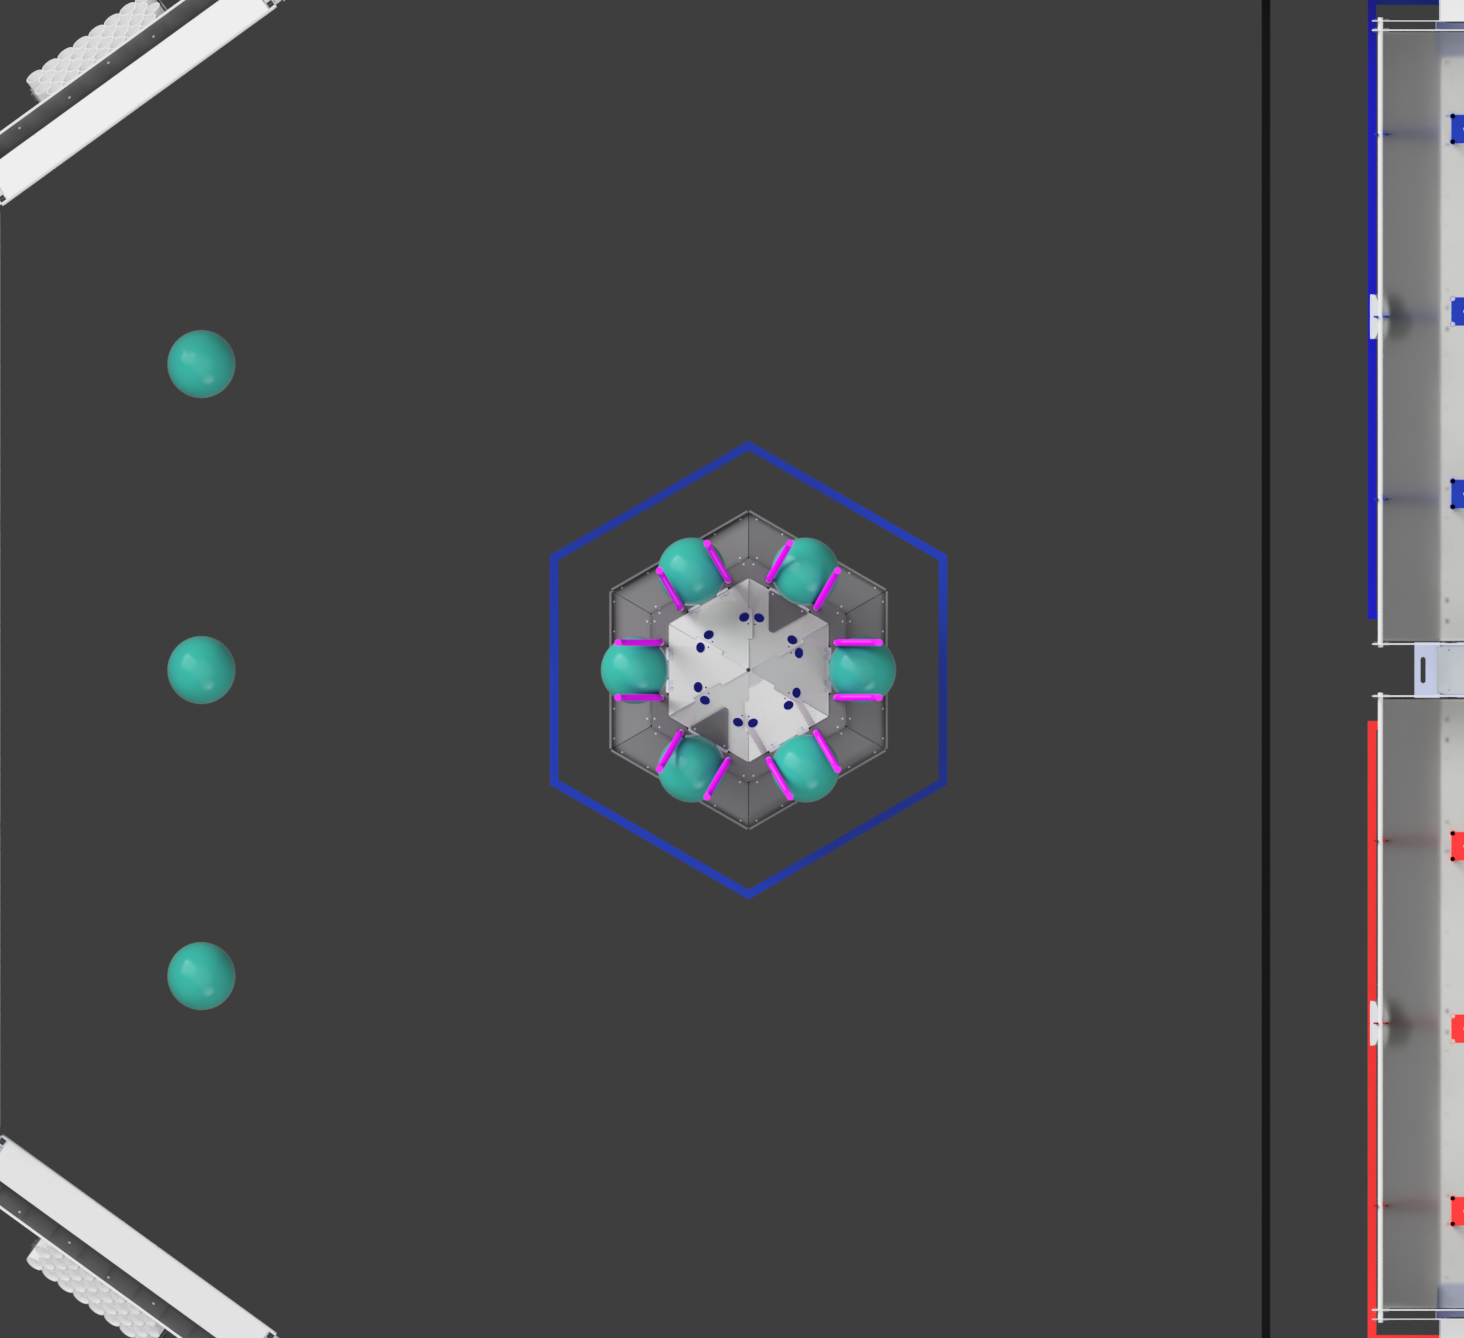
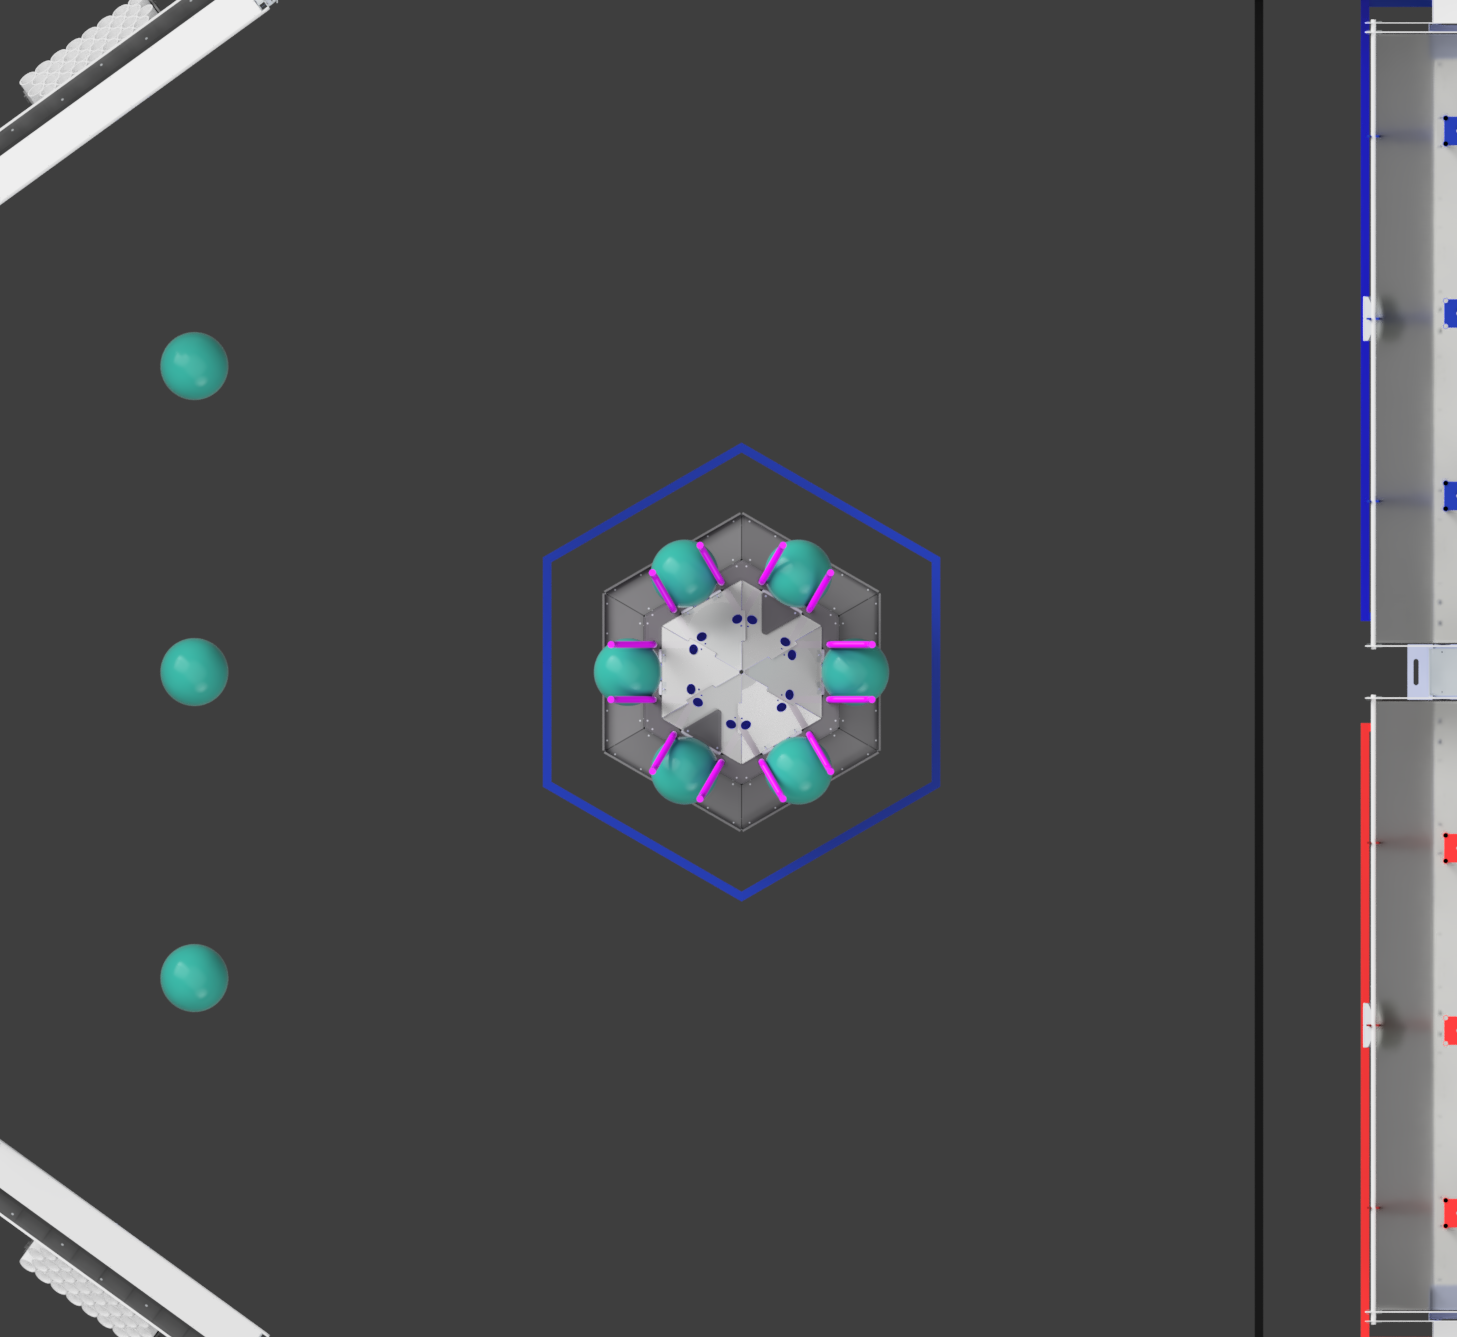
added flipping sides in pit scouting

diff --git a/APP/lib/widgets/pit_scouting_form.dart b/APP/lib/widgets/pit_scouting_form.dart
@@ -25,7 +25,8 @@ class _PitScoutingFormState extends State<PitScoutingForm> {
   bool formSubmitted = false;
   bool loading = true;
   late PitScouting2025 pitScoutingData = PitScouting2025(
-    scout_info: ScoutInfo(team_number: 0, first_name: '', user_id: '', username: ''),
+    scout_info:
+        ScoutInfo(team_number: 0, first_name: '', user_id: '', username: ''),
     team_number: widget.teamNumber,
     event_code: widget.tournament.page.split('/')[4],
     data: PitData2025(
@@ -46,6 +47,11 @@ class _PitScoutingFormState extends State<PitScoutingForm> {
     ),
     time: DateTime.now().toUtc().millisecondsSinceEpoch ~/ 1000,
   );
+
+  List<String?> selectedDropdownValues = [];
+
+  // Define the list of options for the dropdown menu
+  final List<String> dropdownOptions = ['Option 1', 'Option 2', 'Option 3'];
 
   @override
   void initState() {
@@ -70,10 +76,12 @@ class _PitScoutingFormState extends State<PitScoutingForm> {
         loading = false;
       });
       if (token != null) {
-        pitScoutingData = pitScoutingData.copyWith(scout_info: get_scout_info(token));
+        pitScoutingData =
+            pitScoutingData.copyWith(scout_info: get_scout_info(token));
         if (mounted) {
           setState(() {
-            pitScoutingData = pitScoutingData.copyWith(scout_info: get_scout_info(token));
+            pitScoutingData =
+                pitScoutingData.copyWith(scout_info: get_scout_info(token));
           });
         }
       }
@@ -211,109 +219,152 @@ class _PitScoutingFormState extends State<PitScoutingForm> {
     Navigator.pop(context);
   }
 
+  List<double> autoPositions = [];
 
- List<double> autoPositions = [];
+  Widget buildAutoImage(int index) {
+    double fieldWidthMeters = 8.052;
+    while (autoPositions.length <= index) {
+      autoPositions.add(0.0);
+    }
+    double sliderValue = autoPositions[index];
 
-Widget buildAutoImage(int index) {
-  double fieldWidthMeters = 8.052;
-  while (autoPositions.length <= index) {
-    autoPositions.add(0.0);
-  }
-  double sliderValue = autoPositions[index];
+    // Define the list of options for the dropdown menu
+    final List<String> dropdownOptions = ['Blue Side', 'Red Side', 'Both'];
 
-  return Center(
-    child: Card(
-      child: Padding(
-        padding: EdgeInsets.all(20),
-        child: LayoutBuilder(
-          builder: (context, constraints) {
-            double cardWidth = constraints.maxWidth;
-            double originalImageHeight = 250.0;
-            double originalImageWidth = originalImageHeight * 1.09417040359;
-            double scaleFactor = cardWidth / originalImageHeight;
-            double displayedImageWidth = cardWidth;
-            double displayedImageHeight = originalImageWidth * scaleFactor;
-            double pixelsPerMeter = displayedImageWidth / fieldWidthMeters;
-            double squareSize = displayedImageWidth * 0.1;
-            double squareLeft = sliderValue * pixelsPerMeter - squareSize / 2;
-            if (squareLeft < 0) squareLeft = 0;
-            if (squareLeft > displayedImageWidth - squareSize)
-              squareLeft = displayedImageWidth - squareSize;
-            return Column(
-              mainAxisSize: MainAxisSize.min,
-              children: [
-                Stack(
-                  children: [
-                    Transform.rotate(
-                      angle: 1.5708,
-                      child: Image.asset(
-                        'assets/2025 REEFSCAPE Gray Background blue.png',
-                        width: displayedImageWidth,
-                        height: displayedImageHeight,
-                        fit: BoxFit.contain,
-                      ),
-                    ),
-                    Positioned(
-                      bottom: displayedImageHeight * 0.1,
-                      left: squareLeft,
-                      child: Container(
-                        width: squareSize,
-                        height: squareSize,
-                        decoration: BoxDecoration(
-                          border: Border.all(color: Colors.blue, width: 8.0),
+    // Ensure there's an independent dropdown value for each auto image
+    while (selectedDropdownValues.length <= index) {
+      selectedDropdownValues.add(null);
+    }
+
+    // Determine the image to display based on the selected dropdown value
+    String imagePath;
+    double Rotation = 0;
+    switch (selectedDropdownValues[index]) {
+      case 'Red Side':
+        imagePath = 'assets/2025 REEFSCAPE Gray Background red.png';
+        Rotation = -1.5708;
+        break;
+
+      case 'Blue Side':
+        imagePath = 'assets/2025 REEFSCAPE Gray Background blue.png';
+        Rotation = 1.5708;
+        break;
+      default:
+        imagePath = 'assets/2025 REEFSCAPE Gray Background blue.png';
+        Rotation = 1.5708; // Default to blue if no selection or 'Both'
+        break;
+    }
+
+    return Center(
+      child: Card(
+        child: Padding(
+          padding: EdgeInsets.all(20),
+          child: LayoutBuilder(
+            builder: (context, constraints) {
+              double cardWidth = constraints.maxWidth;
+              double originalImageHeight = 250.0;
+              double originalImageWidth = originalImageHeight * 1.09417040359;
+              double scaleFactor = cardWidth / originalImageHeight;
+              double displayedImageWidth = cardWidth;
+              double displayedImageHeight = originalImageWidth * scaleFactor;
+              double pixelsPerMeter = displayedImageWidth / fieldWidthMeters;
+              double squareSize = displayedImageWidth * 0.1;
+              double squareLeft = sliderValue * pixelsPerMeter - squareSize / 2;
+              if (squareLeft < 0) squareLeft = 0;
+              if (squareLeft > displayedImageWidth - squareSize)
+                squareLeft = displayedImageWidth - squareSize;
+              return Column(
+                mainAxisSize: MainAxisSize.min,
+                children: [
+                  Stack(
+                    children: [
+                      Transform.rotate(
+                        angle: Rotation,
+                        child: Image.asset(
+                          imagePath,
+                          width: displayedImageWidth,
+                          height: displayedImageHeight,
+                          fit: BoxFit.contain,
                         ),
                       ),
-                    ),
-                  ],
-                ),
-                SizedBox(height: 10),
-                SizedBox(
-                  width: displayedImageWidth,
-                  child: SliderTheme(
-                    data: SliderTheme.of(context).copyWith(
-                      trackHeight: 22,
-                      thumbShape: RoundSliderThumbShape(enabledThumbRadius: 16),
-                      overlayShape: SliderComponentShape.noOverlay,
-                    ),
-                    child: Slider(
-                      value: sliderValue,
-                      min: 0,
-                      max: fieldWidthMeters,
-                      onChanged: (value) {
-                        setState(() {
-                          autoPositions[index] = value;
-                        });
-                      },
+                      Positioned(
+                        bottom: displayedImageHeight * 0.1,
+                        left: squareLeft,
+                        child: Container(
+                          width: squareSize,
+                          height: squareSize,
+                          decoration: BoxDecoration(
+                            border: Border.all(color: Colors.blue, width: 8.0),
+                          ),
+                        ),
+                      ),
+                    ],
+                  ),
+                  SizedBox(height: 10),
+                  SizedBox(
+                    width: displayedImageWidth,
+                    child: SliderTheme(
+                      data: SliderTheme.of(context).copyWith(
+                        trackHeight: 22,
+                        thumbShape:
+                            RoundSliderThumbShape(enabledThumbRadius: 16),
+                        overlayShape: SliderComponentShape.noOverlay,
+                      ),
+                      child: Slider(
+                        value: sliderValue,
+                        min: 0,
+                        max: fieldWidthMeters,
+                        onChanged: (value) {
+                          setState(() {
+                            autoPositions[index] = value;
+                          });
+                        },
+                      ),
                     ),
                   ),
-                ),
-                Text(
-                  "${sliderValue.toStringAsFixed(2)} m",
-                  style: TextStyle(color: Colors.white),
-                ),
-                IconButton(
-                  icon: Icon(Icons.delete, color: Colors.red),
-                  onPressed: () {
-                    setState(() {
-                      pitScoutingData = pitScoutingData.copyWith(
-                        data: pitScoutingData.data.copyWith(
-                          autos: List.from(pitScoutingData.data.autos)
-                            ..removeAt(index),
-                        ),
+                  Text(
+                    '${sliderValue.toStringAsFixed(2)} m',
+                    style: TextStyle(color: Colors.white),
+                  ),
+                  DropdownButton<String>(
+                    value: selectedDropdownValues[index],
+                    hint: Text('Select Option'),
+                    onChanged: (String? newValue) {
+                      setState(() {
+                        selectedDropdownValues[index] = newValue;
+                      });
+                    },
+                    items: dropdownOptions
+                        .map<DropdownMenuItem<String>>((String value) {
+                      return DropdownMenuItem<String>(
+                        value: value,
+                        child: Text(value),
                       );
-                      autoPositions.removeAt(index);
-                    });
-                  },
-                ),
-              ],
-            );
-          },
+                    }).toList(),
+                  ),
+                  IconButton(
+                    icon: Icon(Icons.delete, color: Colors.red),
+                    onPressed: () {
+                      setState(() {
+                        pitScoutingData = pitScoutingData.copyWith(
+                          data: pitScoutingData.data.copyWith(
+                            autos: List.from(pitScoutingData.data.autos)
+                              ..removeAt(index),
+                          ),
+                        );
+                        autoPositions.removeAt(index);
+                        selectedDropdownValues.removeAt(index);
+                      });
+                    },
+                  ),
+                ],
+              );
+            },
+          ),
         ),
       ),
-    ),
-  );
-}
-
+    );
+  }
 
   @override
   Widget build(BuildContext context) {
@@ -351,42 +402,50 @@ Widget buildAutoImage(int index) {
                     Text('Drive Train'),
                     TextField(
                       onChanged: (value) => handleChange('drive_train', value),
-                      controller: TextEditingController(text: pitScoutingData.data.drive_train),
+                      controller: TextEditingController(
+                          text: pitScoutingData.data.drive_train),
                     ),
                     SwitchListTile(
                       title: Text('Can Score Coral'),
                       value: pitScoutingData.data.can_score_coral,
-                      onChanged: (value) => handleChange('can_score_coral', value),
+                      onChanged: (value) =>
+                          handleChange('can_score_coral', value),
                     ),
                     SwitchListTile(
                       title: Text('Can Score Processor'),
                       value: pitScoutingData.data.can_score_processor,
-                      onChanged: (value) => handleChange('can_score_processor', value),
+                      onChanged: (value) =>
+                          handleChange('can_score_processor', value),
                     ),
                     SwitchListTile(
                       title: Text('Can Score Net'),
                       value: pitScoutingData.data.can_score_net,
-                      onChanged: (value) => handleChange('can_score_net', value),
+                      onChanged: (value) =>
+                          handleChange('can_score_net', value),
                     ),
                     SwitchListTile(
                       title: Text('Ground Coral Pickup'),
                       value: pitScoutingData.data.ground_coral_pickup,
-                      onChanged: (value) => handleChange('ground_coral_pickup', value),
+                      onChanged: (value) =>
+                          handleChange('ground_coral_pickup', value),
                     ),
                     SwitchListTile(
                       title: Text('Feeder Coral Pickup'),
                       value: pitScoutingData.data.feeder_coral_pickup,
-                      onChanged: (value) => handleChange('feeder_coral_pickup', value),
+                      onChanged: (value) =>
+                          handleChange('feeder_coral_pickup', value),
                     ),
                     SwitchListTile(
                       title: Text('Ground Algae Pickup'),
                       value: pitScoutingData.data.ground_algae_pickup,
-                      onChanged: (value) => handleChange('ground_algae_pickup', value),
+                      onChanged: (value) =>
+                          handleChange('ground_algae_pickup', value),
                     ),
                     SwitchListTile(
                       title: Text('Reef Algae Pickup'),
                       value: pitScoutingData.data.reef_algae_pickup,
-                      onChanged: (value) => handleChange('reef_algae_pickup', value),
+                      onChanged: (value) =>
+                          handleChange('reef_algae_pickup', value),
                     ),
                     Text('Spare Parts'),
                     TextField(
@@ -399,8 +458,10 @@ Widget buildAutoImage(int index) {
                     ),
                     Text('Favorite Color'),
                     TextField(
-                      onChanged: (value) => handleChange('favorite_color', value),
-                      controller: TextEditingController(text: pitScoutingData.data.favorite_color),
+                      onChanged: (value) =>
+                          handleChange('favorite_color', value),
+                      controller: TextEditingController(
+                          text: pitScoutingData.data.favorite_color),
                     ),
                     Padding(
                       padding: EdgeInsets.all(8.0),
